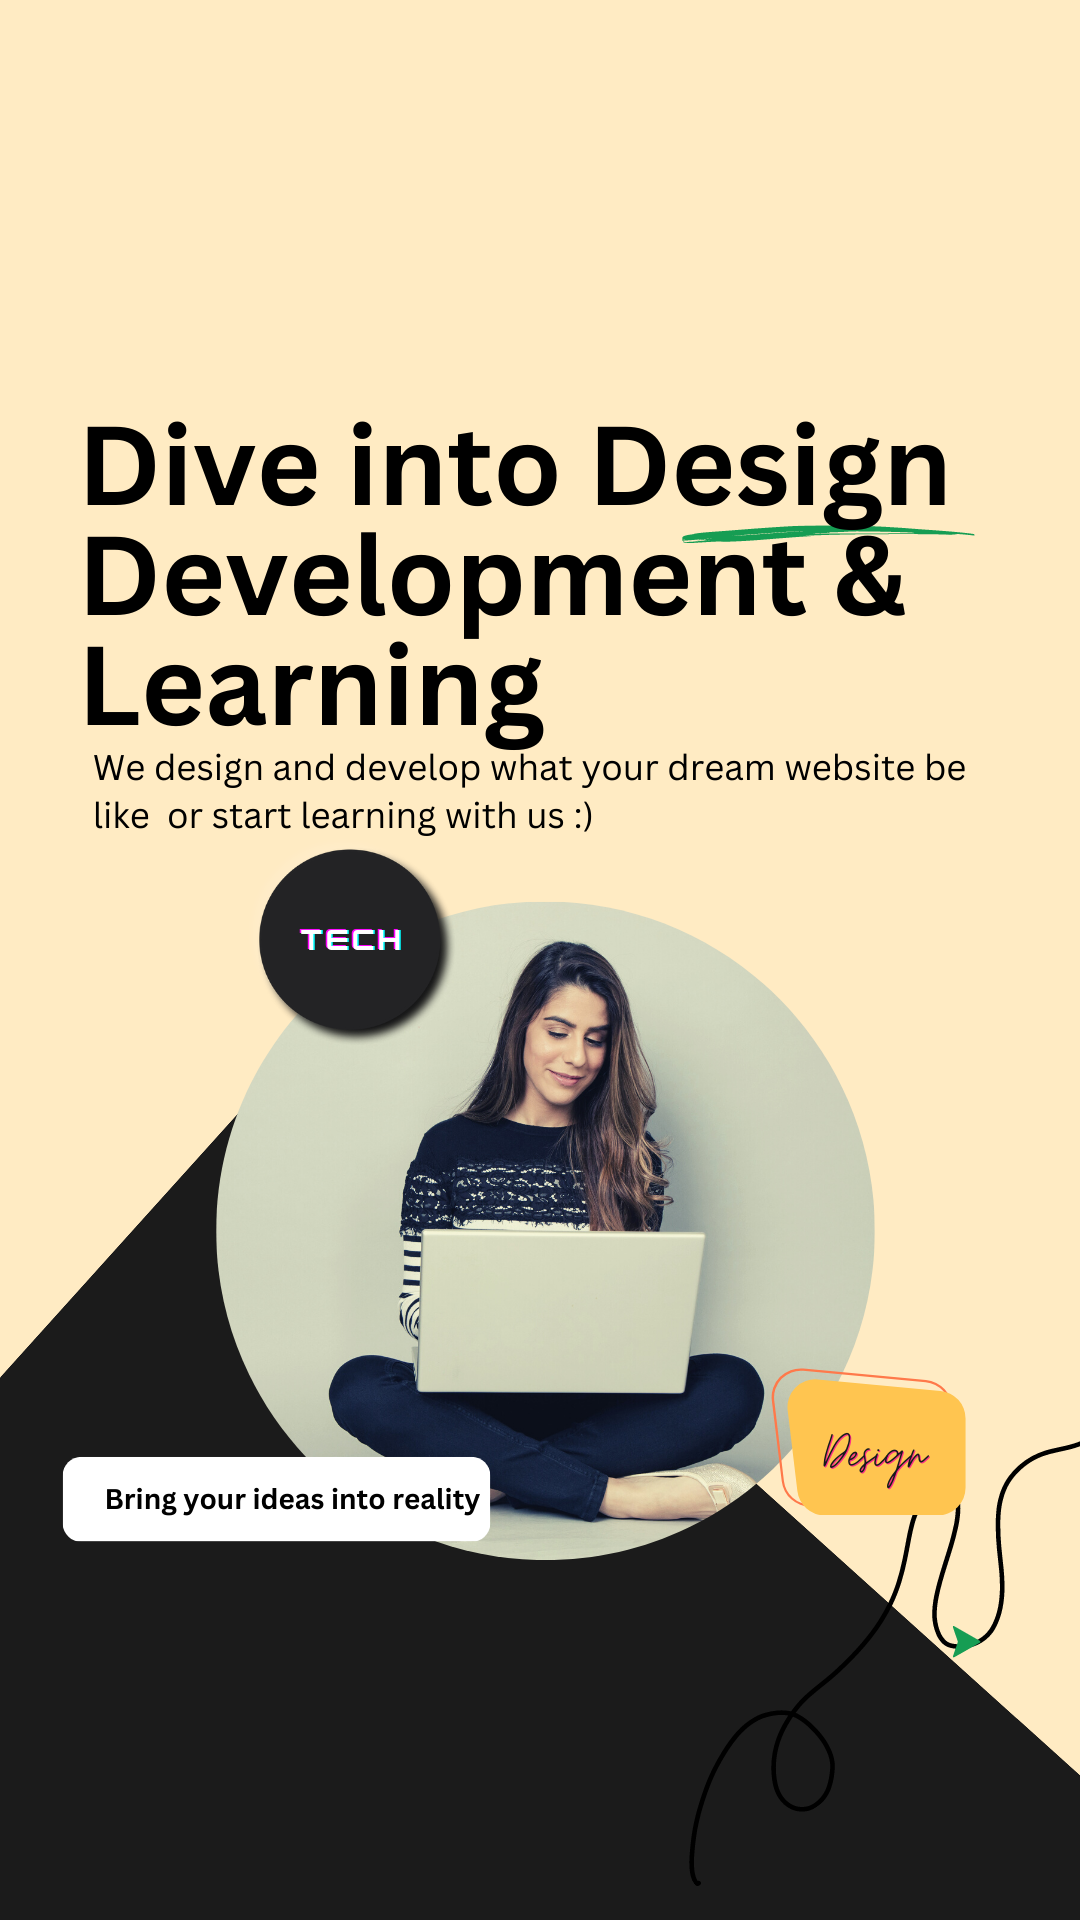
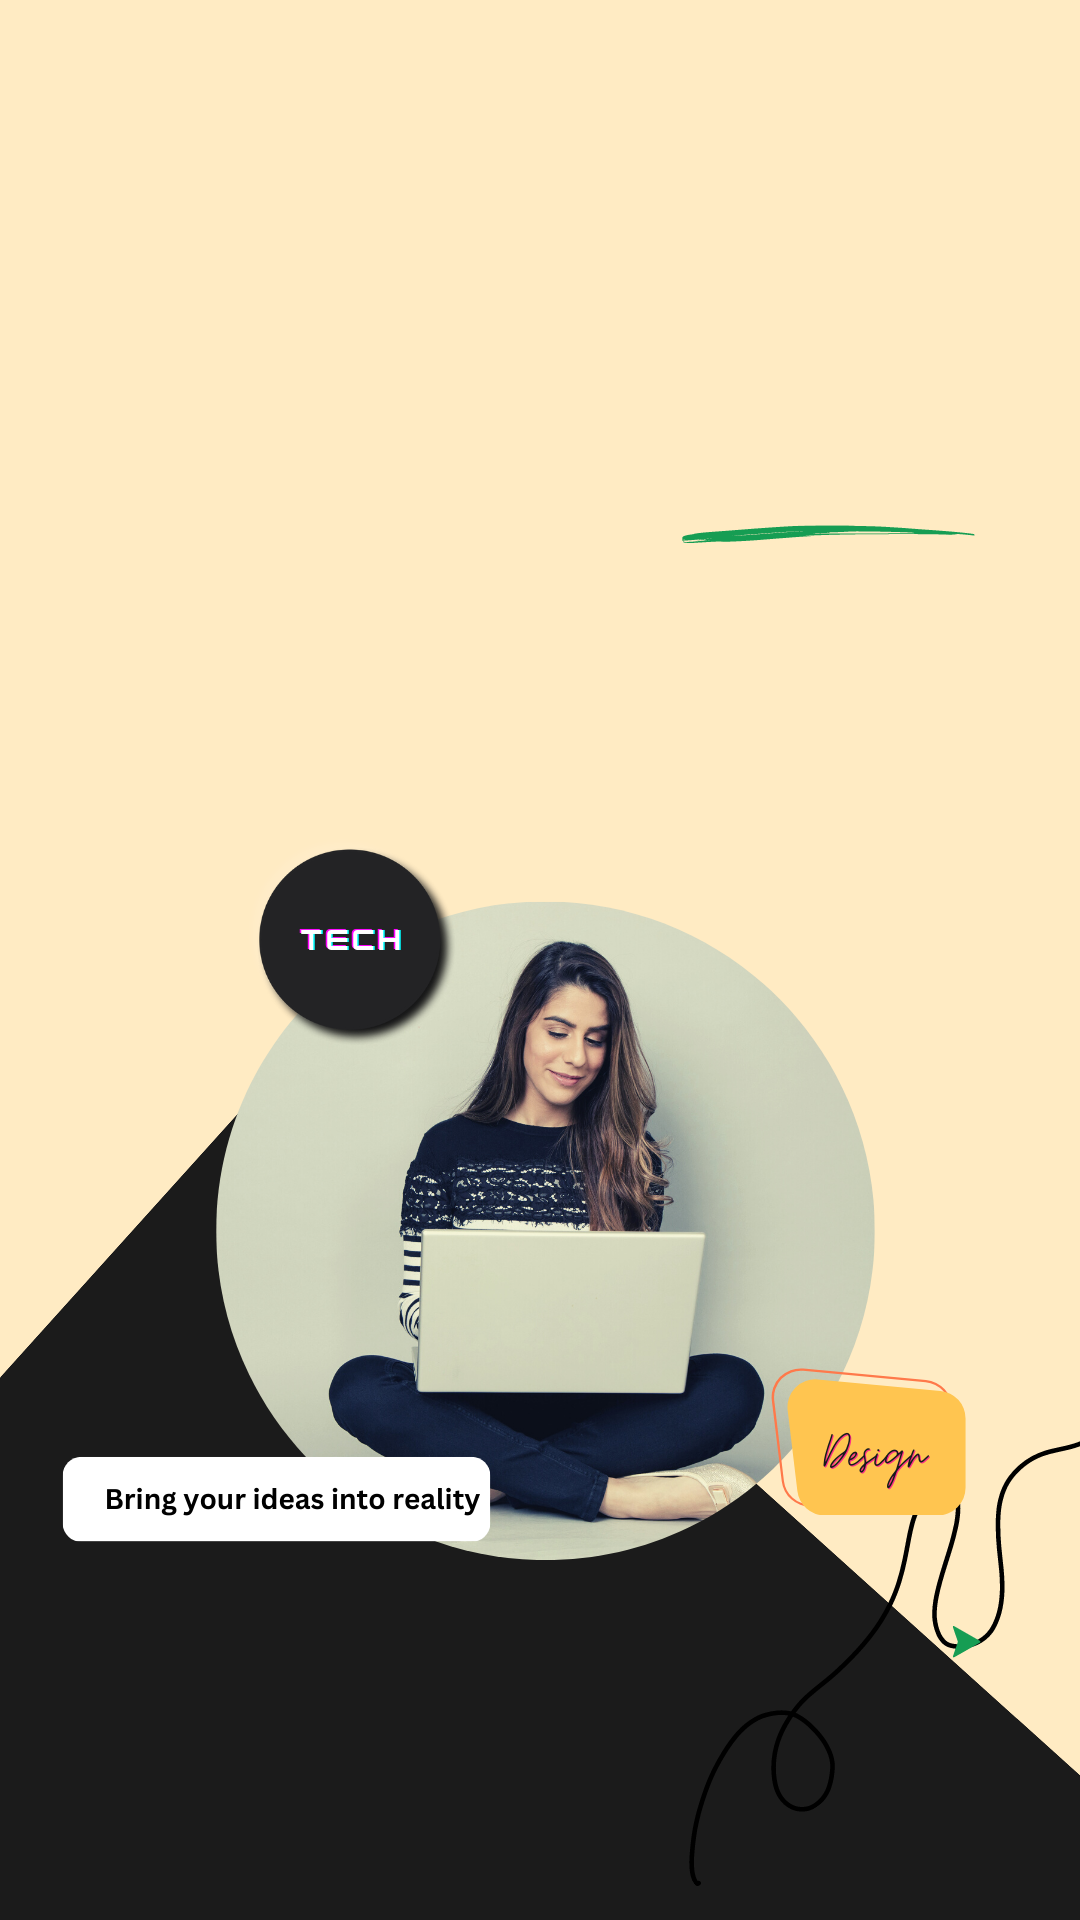
d

Changed region(s): [[0.0611, 0.2188, 0.8861, 0.4375], [0.7333, 0.375, 0.8861, 0.4062]]

diff --git a/style.css b/style.css
@@ -69,8 +69,25 @@ CSS */
     justify-content: space-around;
     border-radius: 12px;
 }
-
-   
+.home_text{
+    display: flex;
+    margin: 10vh auto;
+    width: 88%;
+    height: 80vh;
+}
+.home_left{
+    width: 50%;
+}
+.home_left h1{
+    margin: 16vh auto 0px auto;
+    font-size: 100px;
+    font-weight:bolder;
+    line-height: 105px;
+    
+}
+.home_left p{
+    font-size: 25px;
+}
 
     
   
@@ -181,6 +198,27 @@ CSS */
         align-items: center;
         justify-content: space-around;
         border-radius: 12px;
-       }
+    }
+    .home_text{
+        display: flex;
+        margin: 5vh auto;
+        width: 100%;
+        height: 80vh;
+    }
+    .home_left{
+        width: 95%;
+        margin: 0 10%;
+    }
+    .home_left h1{
+        
+        margin: 5vh auto auto auto;
+        font-size: 45px;
+        font-weight:bolder;
+        line-height: 40px;
+        
+    }
+    .home_left p{
+        font-size: 12px;
+    }
     
   }

diff --git a/index.html b/index.html
@@ -24,6 +24,14 @@
                 
             </div>
         </div>
+        <section class="home_text">
+            <div class="home_left">
+                <h1>Dive into Design Development & learning</h1>
+                <br>
+                <p>We design and develop what your dream website be like <br> or start learning with us :)</p>
+            </div>
+            <div></div>
+        </section>
     </section>
 </body>
 </html>
